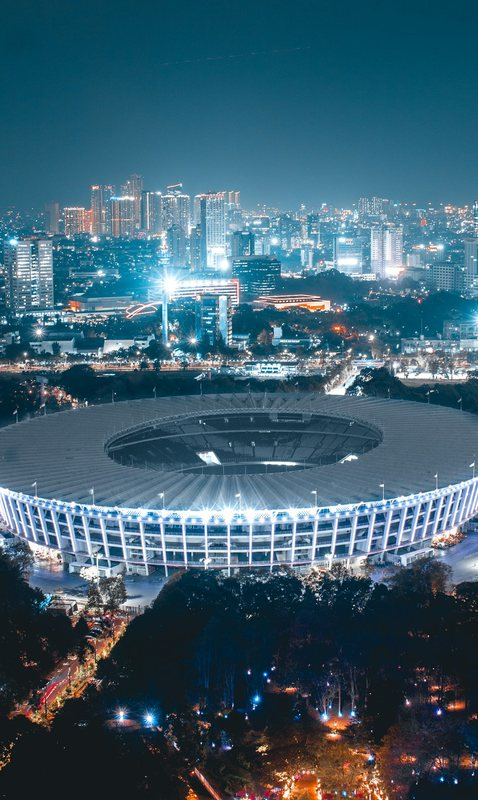
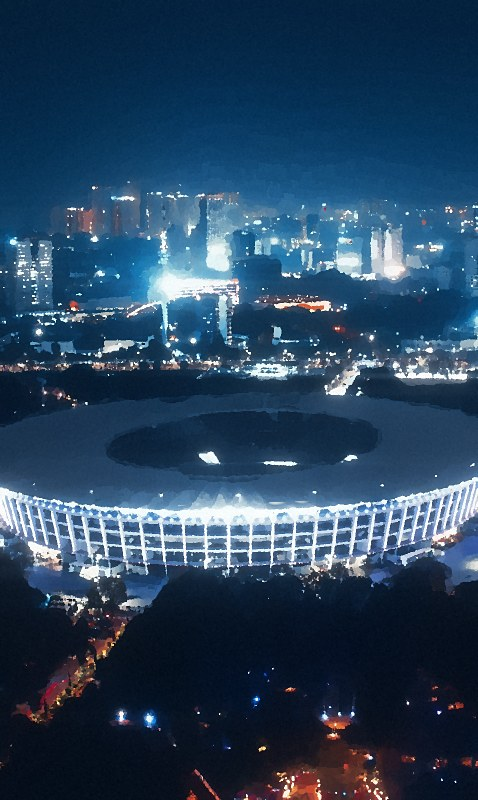
Side panels: painted night-stadium artwork instead of photos
The eight side-panel pictures are now illustrations: each starts from a free
Unsplash photo, has team and sponsor marks taken out, and is repainted with
layered brush strokes, one shared navy / steel-blue / gold night palette, glow
from the lights and canvas grain. tools/make_stadium_art.py rebuilds them.

- assets/stadium: eight painted pictures replace the photo crops; two scenes
  swapped (football night, dome lights) for ones that paint better
- js/stadium.js: new file list (SMJ_STADIUM_ART)
- CREDITS, README and source descriptions reworded from photos to artwork

Claude-Session: https://claude.ai/code/session_012iB8apJzEdmZQn2xmTUn8q

diff --git a/js/widgets.js b/js/widgets.js
@@ -93,22 +93,22 @@
     });
   }
 
-  // ---------- stadium photos beside the facecam ----------
-  // Used by side-left.html / side-right.html and the two sides of top.html. Real
-  // night-stadium photos (listed in js/stadium.js) that drift slowly and crossfade;
-  // the left shows the 1st, 3rd, 5th... photo, the right the 2nd, 4th... and they
+  // ---------- stadium artwork beside the facecam ----------
+  // Used by side-left.html / side-right.html and the two sides of top.html. Painted
+  // night-stadium artwork (listed in js/stadium.js) that drift slowly and crossfade;
+  // the left shows the 1st, 3rd, 5th... picture, the right the 2nd, 4th... and they
   // take turns changing. The right side of top.html can swap to "spots sold".
-  const sides=[...document.querySelectorAll(".side")],PHOTOS=window.SMJ_STADIUM_PHOTOS||[];
+  const sides=[...document.querySelectorAll(".side")],ART=window.SMJ_STADIUM_ART||[];
   if(sides.length){
     const ROTATE_MS=16000;
     sides.forEach(sd=>{
       const q=c=>sd.querySelector(c),right=sd.dataset.side==="right",box=q(".sd-art");
       let idx=right?1:0,shown=0,lastStats=null;
       function show(){
-        if(!PHOTOS.length)return;
-        const src=PHOTOS[idx%PHOTOS.length],img=new Image();
+        if(!ART.length)return;
+        const src=ART[idx%ART.length],img=new Image();
         idx+=2;
-        // swap only once the photo has loaded, so there is never a blank panel
+        // swap only once the picture has loaded, so there is never a blank panel
         img.onload=()=>{
           const el=document.createElement("div"),old=[...box.children];
           el.className="stadium"+(shown++%2?" alt":"");
@@ -120,7 +120,7 @@
       }
       show();
       // the right side changes halfway between the left side's changes
-      if(PHOTOS.length>2)setTimeout(()=>{show();setInterval(show,ROTATE_MS)},right?ROTATE_MS*1.5:ROTATE_MS);
+      if(ART.length>2)setTimeout(()=>{show();setInterval(show,ROTATE_MS)},right?ROTATE_MS*1.5:ROTATE_MS);
       hooks.push(s=>{
         // spots sold (no prices)
         if(!q(".sd-stats"))return;

diff --git a/js/stadium.js b/js/stadium.js
@@ -1,15 +1,15 @@
-// Night-stadium photos for the side panels (top.html, side-left.html, side-right.html).
-// Real photos, cropped to the panel shape (478 x 800), in assets/stadium/. The panels
-// rotate through this list: the left shows the 1st, 3rd, 5th... and the right the
-// 2nd, 4th... so the first two (the floodlight towers) open the show as a pair.
+// Night-stadium artwork for the side panels (top.html, side-left.html, side-right.html).
+// Painted illustrations (478 x 800) in assets/stadium/, built by tools/make_stadium_art.py.
+// The panels rotate through this list: the left shows the 1st, 3rd, 5th... and the right
+// the 2nd, 4th... so the first two (the floodlight towers) open the show as a pair.
 // Add or remove a file name to change what shows. Sources: assets/stadium/CREDITS.txt.
-window.SMJ_STADIUM_PHOTOS=[
-  "01-floodlights-snow.jpg",
-  "02-floodlight-tower.jpg",
-  "03-packed-bowl.jpg",
+window.SMJ_STADIUM_ART=[
+  "01-floodlights.jpg",
+  "02-light-tower.jpg",
+  "03-football-night.jpg",
   "04-ballpark-lights.jpg",
   "05-stadium-skyline.jpg",
   "06-light-banks.jpg",
-  "07-misty-stadium.jpg",
+  "07-dome-lights.jpg",
   "08-roof-lights.jpg"
 ].map(f=>"assets/stadium/"+f);

diff --git a/js/control.js b/js/control.js
@@ -183,7 +183,7 @@ document.querySelectorAll("[data-topstats]").forEach(b=>b.addEventListener("clic
 
 // ---------- OBS sources ----------
 const SOURCES=[
-  ["Top overlay","top.html",1080,360,"The facecam row: night-stadium photos on both sides, your facecam or logo reel in the middle, and spots sold on the right when it's on. Switches are on the Live Show panel"],
+  ["Top overlay","top.html",1080,360,"The facecam row: painted night-stadium artwork on both sides, your facecam or logo reel in the middle, and spots sold on the right when it's on. Switches are on the Live Show panel"],
   ["Spot board · 4 rows","board-4-rows.html",1080,680,"The full-size team board, always 4 rows"],
   ["Spot board · 3 rows","board-3-rows.html",1080,402,"Always 3 rows. Leaves room for the top overlay above it"],
   ["Spot board · 2 rows","board-2-rows.html",1080,252,"The compact board, always 2 rows"],

diff --git a/top.html b/top.html
@@ -11,8 +11,8 @@
 <link rel="stylesheet" href="css/sources.css"/>
 </head>
 <body class="src src-top" style="--w:1080px;--h:360px">
-<!-- OBS Browser Source: 1080 x 360. The whole upper section: night-stadium photos on the left,
-     facecam / logo reel in the middle, stadium photos or spots sold on the right.
+<!-- OBS Browser Source: 1080 x 360. The whole upper section: painted night-stadium artwork on the left,
+     facecam / logo reel in the middle, stadium artwork or spots sold on the right.
      Switches are on the Live Show panel (Top Overlay). -->
 <main class="src-frame">
   <div class="tb-slot tb-left">

diff --git a/control.html b/control.html
@@ -59,7 +59,7 @@
 
     <section class="panel">
       <h2>Top Overlay</h2>
-      <p class="hint small">For the Top overlay in OBS: night-stadium photos on both sides, facecam in the middle.</p>
+      <p class="hint small">For the Top overlay in OBS: painted night-stadium artwork on both sides, facecam in the middle.</p>
       <div class="toggle-row"><span>Camera</span><div class="buttons">
         <button type="button" data-facecam="camera">Live</button>
         <button type="button" data-facecam="logo">Not live (logo reel)</button>

diff --git a/side-right.html b/side-right.html
@@ -12,7 +12,7 @@
 </head>
 <body class="src src-side" style="--w:220px;--h:360px">
 <!-- OBS Browser Source: 220 x 360. Goes on the right of the 640 x 360 facecam frame.
-     Rotating night-stadium photos (the same for every league). -->
+     Rotating painted night-stadium artwork (the same for every league). -->
 <main class="src-frame">
   <div class="side" data-side="right">
     <div class="sd-surface"><i class="sd-mark"></i><i class="sd-sweep"></i></div>

diff --git a/side-left.html b/side-left.html
@@ -12,7 +12,7 @@
 </head>
 <body class="src src-side" style="--w:220px;--h:360px">
 <!-- OBS Browser Source: 220 x 360. Goes on the left of the 640 x 360 facecam frame.
-     Rotating night-stadium photos (the same for every league). -->
+     Rotating painted night-stadium artwork (the same for every league). -->
 <main class="src-frame">
   <div class="side" data-side="left">
     <div class="sd-surface"><i class="sd-mark"></i><i class="sd-sweep"></i></div>

diff --git a/tools/make_stadium_art.py b/tools/make_stadium_art.py
@@ -1,0 +1,190 @@
+"""Builds the painted night-stadium artwork in assets/stadium (the side panels of the Top overlay).
+
+Each picture starts from a free Unsplash photo (listed in SCENES and in assets/stadium/CREDITS.txt),
+has any team or sponsor marks taken out, and is then repainted: layered brush strokes, a shared
+navy / steel-blue / gold night palette, glow and streaks from the lights, and a little canvas grain.
+So the panels read as one set of illustrations, not as photographs. Run:
+
+  python3 tools/make_stadium_art.py            (all eight)
+  python3 tools/make_stadium_art.py 03 07      (just those)
+
+Needs numpy and OpenCV with the contrib modules: pip install opencv-contrib-python-headless
+The source photos are downloaded once into a temp folder (or put them there yourself as <photo-id>.jpg).
+"""
+import os
+import sys
+import tempfile
+import urllib.request
+
+import cv2
+import numpy as np
+
+OUT = os.path.join(os.path.dirname(__file__), "..", "assets", "stadium")
+SRC = os.path.join(tempfile.gettempdir(), "smj-stadium-src")
+PW, PH = 478, 800          # final panel picture
+WW, WH = PW * 2, PH * 2    # working size
+
+# name, photo id, crop (left, top, height as fractions of the photo; mirror), retouch steps, grade options.
+# Retouch steps use final-picture pixels:
+#   ("smear", (x0, y0, x1, y1), thickness)  turns a ribbon board along that line into a streak of light
+#   ("unmark", [(x, y), ...])               paints a logo off the turf inside that outline
+#   ("fill", (x0, y0, x1, y1))              paints a small mark out with what surrounds it
+SCENES = [
+    ("01-floodlights", "photo-1509928015542-fcc9b3bcd048", (0.0, 0.0, 1.0, False), [], {}),
+    ("02-light-tower", "photo-1671723204288-1b3794effd87", (0.10, 0.0, 1.0, True), [], {}),
+    ("03-football-night", "photo-1584484530553-df6bbdc47c89", (0.559, 0.0, 0.70, False),
+     [("smear", (0, 405, 478, 415), 30), ("smear", (230, 440, 478, 452), 30),
+      ("unmark", [(96, 716), (144, 716), (176, 728), (176, 744), (118, 744), (96, 726)])], {"turf": 0.22}),
+    ("04-ballpark-lights", "photo-1682384157113-47285026d285", (0.67, 0.07, 0.86, False),
+     [("smear", (78, 480, 478, 480), 30), ("fill", (0, 0, 84, 30))], {}),
+    ("05-stadium-skyline", "photo-1573838886533-c90767b6e60e", (0.126, 0.0, 1.0, False), [], {}),
+    ("06-light-banks", "photo-1556764420-e37ef4cdfa5c", (0.543, 0.086, 0.39, False), [], {}),
+    ("07-dome-lights", "photo-1787762001721-0f30c8b6af94", (0.50, 0.10, 0.90, False),
+     [("smear", (60, 570, 250, 578), 22), ("smear", (340, 598, 478, 604), 24)], {"turf": 0.30}),
+    ("08-roof-lights", "photo-1489944440615-453fc2b6a9a9", (0.80, 0.0, 1.0, False), [], {}),
+]
+
+
+def source(photo):
+    """Path of the source photo, downloading it the first time."""
+    os.makedirs(SRC, exist_ok=True)
+    path = os.path.join(SRC, photo + ".jpg")
+    if not os.path.exists(path):
+        url = "https://images.unsplash.com/%s?fm=jpg&q=88&w=3000&fit=max" % photo
+        print("  downloading", url)
+        urllib.request.urlretrieve(url, path)
+    return path
+
+
+def load_crop(photo, left, top, hfrac, mirror=False):
+    im = cv2.imread(source(photo))
+    ih, iw = im.shape[:2]
+    ch = hfrac * ih
+    cw = ch * PW / PH
+    x = int(round(max(0, min(left * iw, iw - cw))))
+    y = int(round(max(0, min(top * ih, ih - ch))))
+    im = im[y:y + int(round(ch)), x:x + int(round(cw))]
+    im = cv2.resize(im, (WW, WH), interpolation=cv2.INTER_AREA if im.shape[1] >= WW else cv2.INTER_LANCZOS4)
+    return im[:, ::-1].copy() if mirror else im
+
+
+def lum(f):
+    return f[..., 0] * 0.114 + f[..., 1] * 0.587 + f[..., 2] * 0.299
+
+
+def tone(im, mean=0.20):
+    """Even out exposure so every scene sits in the same night range."""
+    f = im.astype(np.float32) / 255.0
+    hi = np.percentile(lum(f), 99.7)
+    f = np.clip(f / max(hi, 0.5), 0, 1)
+    m = float(lum(f).mean())
+    g = float(np.clip(np.log(mean) / np.log(max(m, 1e-3)), 0.75, 1.9))
+    return (np.clip(f ** g, 0, 1) * 255).astype(np.uint8)
+
+
+def unmark(im, poly):
+    """Inside the outline, everything that is not grass is filled back in from the grass around it."""
+    k = WW / PW
+    area = np.zeros(im.shape[:2], np.uint8)
+    cv2.fillPoly(area, [np.array([[int(round(x * k)), int(round(y * k))] for x, y in poly], np.int32)], 255)
+    b, g, r = [im[..., c].astype(np.int16) for c in range(3)]
+    notgrass = ((g - np.maximum(r, b)) < 18).astype(np.uint8) * 255
+    mask = cv2.dilate(cv2.bitwise_and(area, notgrass), np.ones((9, 9), np.uint8))
+    mask = cv2.bitwise_and(mask, cv2.dilate(area, np.ones((5, 5), np.uint8)))
+    return cv2.inpaint(im, mask, 7, cv2.INPAINT_TELEA)
+
+
+def retouch(im, ops):
+    """Take out team and sponsor marks before painting."""
+    k = WW / PW
+    for op in ops:
+        if op[0] == "unmark":
+            im = unmark(im, op[1])
+            continue
+        x0, y0, x1, y1 = [int(round(v * k)) for v in op[1]]
+        mask = np.zeros(im.shape[:2], np.uint8)
+        if op[0] == "smear":
+            cv2.line(mask, (x0, y0), (x1, y1), 255, int(round(op[2] * k)))
+            sm = cv2.blur(cv2.blur(im, (121, 3)), (121, 3))
+            m = cv2.GaussianBlur(mask, (0, 0), 3).astype(np.float32)[..., None] / 255.0
+            im = (im * (1 - m) + sm * m).astype(np.uint8)
+        elif op[0] == "fill":
+            cv2.rectangle(mask, (x0, y0), (x1, y1), 255, -1)
+            im = cv2.inpaint(im, mask, 11, cv2.INPAINT_TELEA)
+    return im
+
+
+def paint(im, coarse=9, mid=5, fine=2):
+    """Layered brush work: broad dabs everywhere, finer strokes only where there is an edge worth keeping."""
+    den = cv2.fastNlMeansDenoisingColored(im, None, 7, 7, 5, 15)
+    base = cv2.edgePreservingFilter(den, flags=cv2.RECURS_FILTER, sigma_s=40, sigma_r=0.35)
+    half = cv2.resize(base, (WW // 2, WH // 2), interpolation=cv2.INTER_AREA)
+    big = cv2.resize(cv2.xphoto.oilPainting(half, coarse, 1), (WW, WH), interpolation=cv2.INTER_CUBIC)
+    med = cv2.xphoto.oilPainting(base, mid, 1)
+    fin = cv2.xphoto.oilPainting(base, fine, 1)
+    g = cv2.cvtColor(base, cv2.COLOR_BGR2GRAY).astype(np.float32) / 255.0
+    e = cv2.magnitude(cv2.Sobel(g, cv2.CV_32F, 1, 0, ksize=3), cv2.Sobel(g, cv2.CV_32F, 0, 1, ksize=3))
+    e = cv2.GaussianBlur(e, (0, 0), 5)
+    m1 = np.clip(e / 0.10, 0, 1)[..., None]              # some structure: medium strokes
+    m2 = np.clip((e - 0.14) / 0.20, 0, 1)[..., None]     # strong edges and lights: fine strokes
+    out = big.astype(np.float32) * (1 - m1) + med.astype(np.float32) * m1
+    out = out * (1 - m2) + fin.astype(np.float32) * m2
+    return np.clip(out, 0, 255).astype(np.uint8)
+
+
+def grade(im, sat=1.22, glow=1.0, tint=0.30, turf=0.16, seed=1):
+    """Night grade: navy shadows, a shared blue-to-gold palette, bloom and light streaks, canvas grain."""
+    f = im.astype(np.float32) / 255.0
+    s = f * f * (3 - 2 * f)
+    f = f * 0.65 + s * 0.35                                           # contrast
+    L = lum(f)[..., None]
+    f = np.clip(L + (f - L) * sat, 0, 1)                              # saturation
+    # fields: pull yellow-green turf toward a deeper night green
+    b, g_, r = f[..., 0], f[..., 1], f[..., 2]
+    green = np.clip((g_ - np.maximum(r * 0.92, b)) / np.maximum(g_, 1e-3) / 0.22, 0, 1)
+    f = np.stack([(b + green * 0.04 * g_) * (1 - turf * 0.6 * green), g_ * (1 - turf * green),
+                  r * (1 - 0.42 * green) * (1 - turf * 0.6 * green)], -1)
+    # shared palette (BGR): navy -> steel blue -> warm gold -> white, mixed in by `tint`
+    L = lum(f)
+    stops = np.array([0, 0.35, 0.75, 1.0], np.float32)
+    pal = np.array([[0.085, 0.035, 0.012], [0.52, 0.30, 0.12], [0.62, 0.82, 0.98], [1, 1, 1]], np.float32)
+    tri = np.stack([np.interp(L, stops, pal[:, c]) for c in range(3)], -1)
+    f = f * (1 - tint) + tri * tint
+    L = lum(f)[..., None]
+    f = np.clip(f + (1 - L) ** 3 * np.array([0.06, 0.028, 0.008], np.float32), 0, 1)   # lift shadows to navy
+    # bloom: only from real lights (very bright and close to white)
+    mx = f.max(-1, keepdims=True)
+    mn = f.min(-1, keepdims=True)
+    white = 1 - np.clip((mx - mn) / np.maximum(mx, 1e-3) / 0.55, 0, 1)
+    bright = f * np.clip((lum(f)[..., None] - 0.80) / 0.20, 0, 1) ** 1.5 * white
+    b1 = cv2.GaussianBlur(bright, (0, 0), 9)
+    b2 = cv2.GaussianBlur(bright, (0, 0), 34)
+    b3 = cv2.GaussianBlur(bright, (0, 0), 100)
+    streak = cv2.GaussianBlur(bright, (0, 0), sigmaX=170, sigmaY=2.0) * np.array([1.0, 0.82, 0.62], np.float32)
+    add = (0.7 * b1 + 0.9 * b2 + 0.9 * b3 + 0.5 * streak) * glow
+    f = 1 - (1 - f) * (1 - np.clip(add, 0, 1))
+    rng = np.random.default_rng(seed)                                 # canvas grain
+    grain = cv2.GaussianBlur(rng.standard_normal(f.shape[:2]).astype(np.float32), (0, 0), 1.1)
+    f = f + grain[..., None] * 0.02
+    return (np.clip(f, 0, 1) * 255).astype(np.uint8)
+
+
+def finish(im):
+    out = cv2.resize(im, (PW, PH), interpolation=cv2.INTER_AREA)
+    blur = cv2.GaussianBlur(out, (0, 0), 1.2)
+    return cv2.addWeighted(out, 1.35, blur, -0.35, 0)   # crisp the strokes
+
+
+def render(photo, crop, ops=(), mean=0.20, **kw):
+    return finish(grade(paint(retouch(tone(load_crop(photo, *crop), mean), ops)), **kw))
+
+
+if __name__ == "__main__":
+    only = sys.argv[1:]
+    os.makedirs(OUT, exist_ok=True)
+    for i, (name, photo, crop, ops, kw) in enumerate(SCENES):
+        if only and name[:2] not in only:
+            continue
+        print(name)
+        cv2.imwrite(os.path.join(OUT, name + ".jpg"), render(photo, crop, ops, seed=i + 1, **kw),
+                    [cv2.IMWRITE_JPEG_QUALITY, 88])
